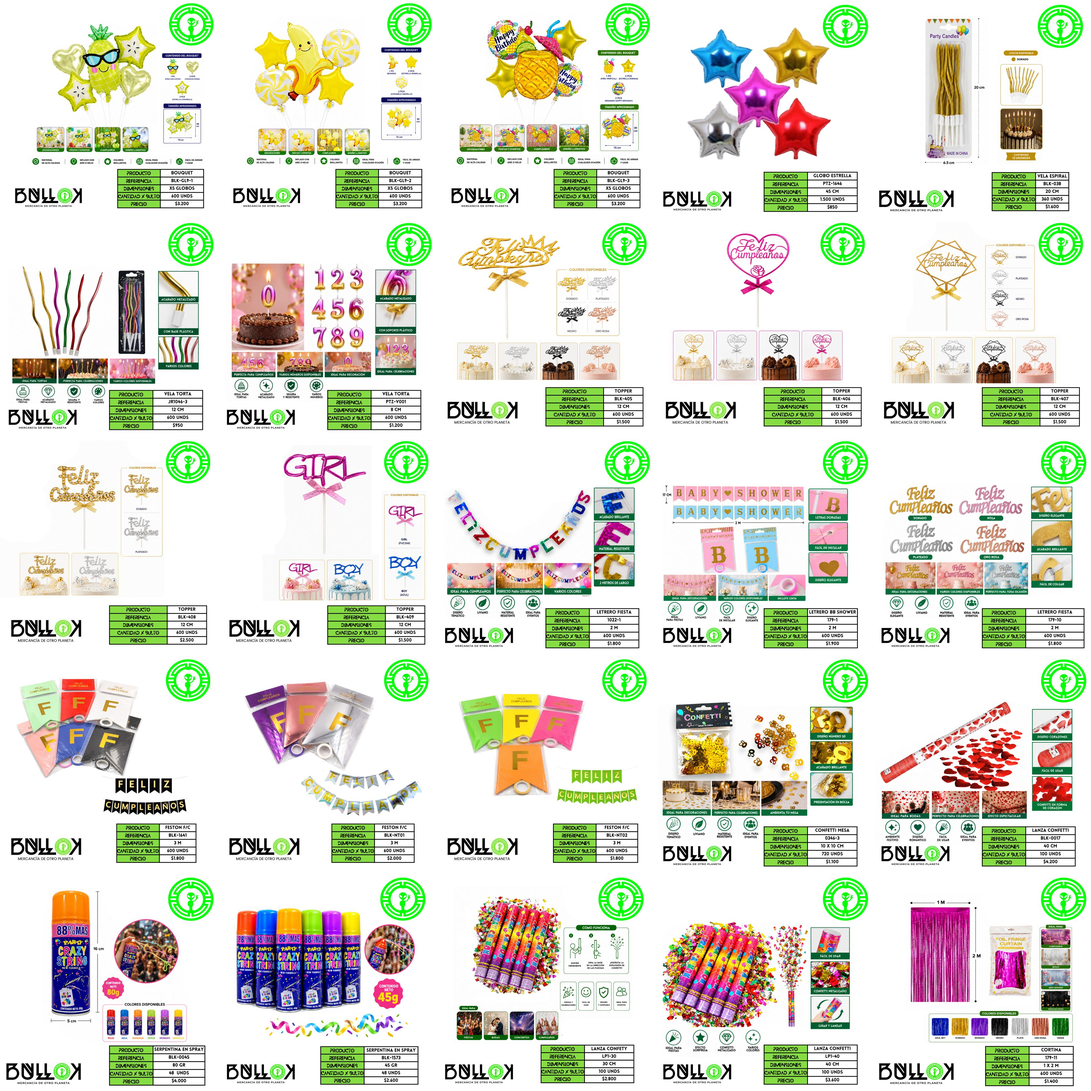
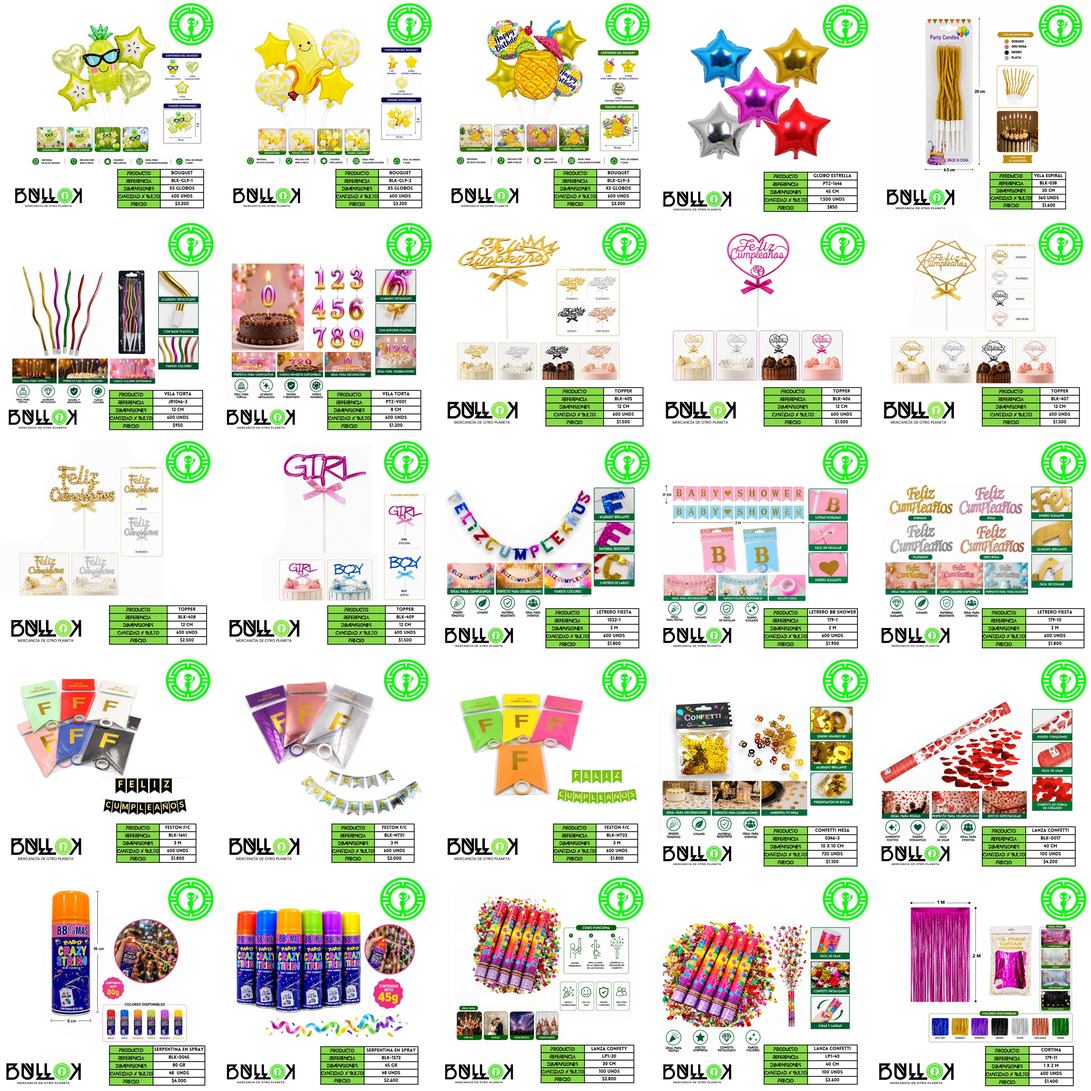
BLK-038: nueva imagen (vela espiral) + refrescar sprite PINATERIA_1 -> v2
Claude-Session: https://claude.ai/code/session_01N4jhDfX9we3yVSxhKyWV8N

Changed region(s): [[0.8097, 0.0, 0.9966, 0.218]]

diff --git a/index.html b/index.html
@@ -9001,7 +9001,7 @@ const INLINE={
    "detalle": "",
    "archivo": "BLK-GL9-1.jpg",
    "disponible": true,
-   "sh": "sp/PINATERIA_1.jpg",
+   "sh": "sp/PINATERIA_1-v2.jpg",
    "ci": 0
   },
   {
@@ -9014,7 +9014,7 @@ const INLINE={
    "detalle": "",
    "archivo": "BLK-GL9-2.jpg",
    "disponible": true,
-   "sh": "sp/PINATERIA_1.jpg",
+   "sh": "sp/PINATERIA_1-v2.jpg",
    "ci": 1
   },
   {
@@ -9027,7 +9027,7 @@ const INLINE={
    "detalle": "",
    "archivo": "BLK-GL9-3.jpg",
    "disponible": true,
-   "sh": "sp/PINATERIA_1.jpg",
+   "sh": "sp/PINATERIA_1-v2.jpg",
    "ci": 2
   },
   {
@@ -9040,7 +9040,7 @@ const INLINE={
    "detalle": "45 cm",
    "archivo": "PTZ-1646.jpg",
    "disponible": true,
-   "sh": "sp/PINATERIA_1.jpg",
+   "sh": "sp/PINATERIA_1-v2.jpg",
    "ci": 3,
    "colores_agotados": "Solo disponible en color plata"
   },
@@ -9054,7 +9054,7 @@ const INLINE={
    "detalle": "20 cm",
    "archivo": "BLK-038.jpg",
    "disponible": true,
-   "sh": "sp/PINATERIA_1.jpg",
+   "sh": "sp/PINATERIA_1-v2.jpg",
    "ci": 4,
    "preventa": true,
    "colores_agotados": "Solo quedan oro rosa, plata y negra."
@@ -9069,7 +9069,7 @@ const INLINE={
    "detalle": "12 cm",
    "archivo": "JR1046-3.jpg",
    "disponible": false,
-   "sh": "sp/PINATERIA_1.jpg",
+   "sh": "sp/PINATERIA_1-v2.jpg",
    "ci": 5
   },
   {
@@ -9082,7 +9082,7 @@ const INLINE={
    "detalle": "8 cm",
    "archivo": "PTZ-V001.jpg",
    "disponible": true,
-   "sh": "sp/PINATERIA_1.jpg",
+   "sh": "sp/PINATERIA_1-v2.jpg",
    "ci": 6,
    "colores_agotados": "Solo disponibles los números 0 y 4"
   },
@@ -9096,7 +9096,7 @@ const INLINE={
    "detalle": "12 cm",
    "archivo": "BLK-405.jpg",
    "disponible": true,
-   "sh": "sp/PINATERIA_1.jpg",
+   "sh": "sp/PINATERIA_1-v2.jpg",
    "ci": 7
   },
   {
@@ -9109,7 +9109,7 @@ const INLINE={
    "detalle": "12 cm",
    "archivo": "BLK-406.jpg",
    "disponible": true,
-   "sh": "sp/PINATERIA_1.jpg",
+   "sh": "sp/PINATERIA_1-v2.jpg",
    "ci": 8
   },
   {
@@ -9122,7 +9122,7 @@ const INLINE={
    "detalle": "12 cm",
    "archivo": "BLK-407.jpg",
    "disponible": true,
-   "sh": "sp/PINATERIA_1.jpg",
+   "sh": "sp/PINATERIA_1-v2.jpg",
    "ci": 9
   },
   {
@@ -9135,7 +9135,7 @@ const INLINE={
    "detalle": "12 cm",
    "archivo": "BLK-408.jpg",
    "disponible": true,
-   "sh": "sp/PINATERIA_1.jpg",
+   "sh": "sp/PINATERIA_1-v2.jpg",
    "ci": 10
   },
   {
@@ -9148,7 +9148,7 @@ const INLINE={
    "detalle": "12 cm",
    "archivo": "BLK-409.jpg",
    "disponible": true,
-   "sh": "sp/PINATERIA_1.jpg",
+   "sh": "sp/PINATERIA_1-v2.jpg",
    "ci": 11
   },
   {
@@ -9161,7 +9161,7 @@ const INLINE={
    "detalle": "2 m",
    "archivo": "1022-1.jpg",
    "disponible": true,
-   "sh": "sp/PINATERIA_1.jpg",
+   "sh": "sp/PINATERIA_1-v2.jpg",
    "ci": 12
   },
   {
@@ -9174,7 +9174,7 @@ const INLINE={
    "detalle": "2 m",
    "archivo": "179-1.jpg",
    "disponible": true,
-   "sh": "sp/PINATERIA_1.jpg",
+   "sh": "sp/PINATERIA_1-v2.jpg",
    "ci": 13
   },
   {
@@ -9187,7 +9187,7 @@ const INLINE={
    "detalle": "2 m",
    "archivo": "179-10.jpg",
    "disponible": true,
-   "sh": "sp/PINATERIA_1.jpg",
+   "sh": "sp/PINATERIA_1-v2.jpg",
    "ci": 14
   },
   {
@@ -9200,7 +9200,7 @@ const INLINE={
    "detalle": "3 m",
    "archivo": "BLK-1641.jpg",
    "disponible": true,
-   "sh": "sp/PINATERIA_1.jpg",
+   "sh": "sp/PINATERIA_1-v2.jpg",
    "ci": 15
   },
   {
@@ -9213,7 +9213,7 @@ const INLINE={
    "detalle": "3 m",
    "archivo": "BLK-NT01.jpg",
    "disponible": true,
-   "sh": "sp/PINATERIA_1.jpg",
+   "sh": "sp/PINATERIA_1-v2.jpg",
    "ci": 16
   },
   {
@@ -9226,7 +9226,7 @@ const INLINE={
    "detalle": "3 m",
    "archivo": "BLK-NT02.jpg",
    "disponible": true,
-   "sh": "sp/PINATERIA_1.jpg",
+   "sh": "sp/PINATERIA_1-v2.jpg",
    "ci": 17
   },
   {
@@ -9239,7 +9239,7 @@ const INLINE={
    "detalle": "10 x 10 cm",
    "archivo": "0346-3.jpg",
    "disponible": true,
-   "sh": "sp/PINATERIA_1.jpg",
+   "sh": "sp/PINATERIA_1-v2.jpg",
    "ci": 18
   },
   {
@@ -9252,7 +9252,7 @@ const INLINE={
    "detalle": "40 cm",
    "archivo": "BLK-0017.jpg",
    "disponible": true,
-   "sh": "sp/PINATERIA_1.jpg",
+   "sh": "sp/PINATERIA_1-v2.jpg",
    "ci": 19
   },
   {
@@ -9265,7 +9265,7 @@ const INLINE={
    "detalle": "80 g",
    "archivo": "BLK-0045.jpg",
    "disponible": true,
-   "sh": "sp/PINATERIA_1.jpg",
+   "sh": "sp/PINATERIA_1-v2.jpg",
    "ci": 20
   },
   {
@@ -9278,7 +9278,7 @@ const INLINE={
    "detalle": "45 g",
    "archivo": "BLK-1573.jpg",
    "disponible": true,
-   "sh": "sp/PINATERIA_1.jpg",
+   "sh": "sp/PINATERIA_1-v2.jpg",
    "ci": 21
   },
   {
@@ -9291,7 +9291,7 @@ const INLINE={
    "detalle": "30 cm",
    "archivo": "LP1-30.jpg",
    "disponible": true,
-   "sh": "sp/PINATERIA_1.jpg",
+   "sh": "sp/PINATERIA_1-v2.jpg",
    "ci": 22
   },
   {
@@ -9304,7 +9304,7 @@ const INLINE={
    "detalle": "40 cm",
    "archivo": "LP1-40.jpg",
    "disponible": false,
-   "sh": "sp/PINATERIA_1.jpg",
+   "sh": "sp/PINATERIA_1-v2.jpg",
    "ci": 23
   },
   {
@@ -9317,7 +9317,7 @@ const INLINE={
    "detalle": "1 x 2 m",
    "archivo": "179-11.jpg",
    "disponible": true,
-   "sh": "sp/PINATERIA_1.jpg",
+   "sh": "sp/PINATERIA_1-v2.jpg",
    "ci": 24
   },
   {
